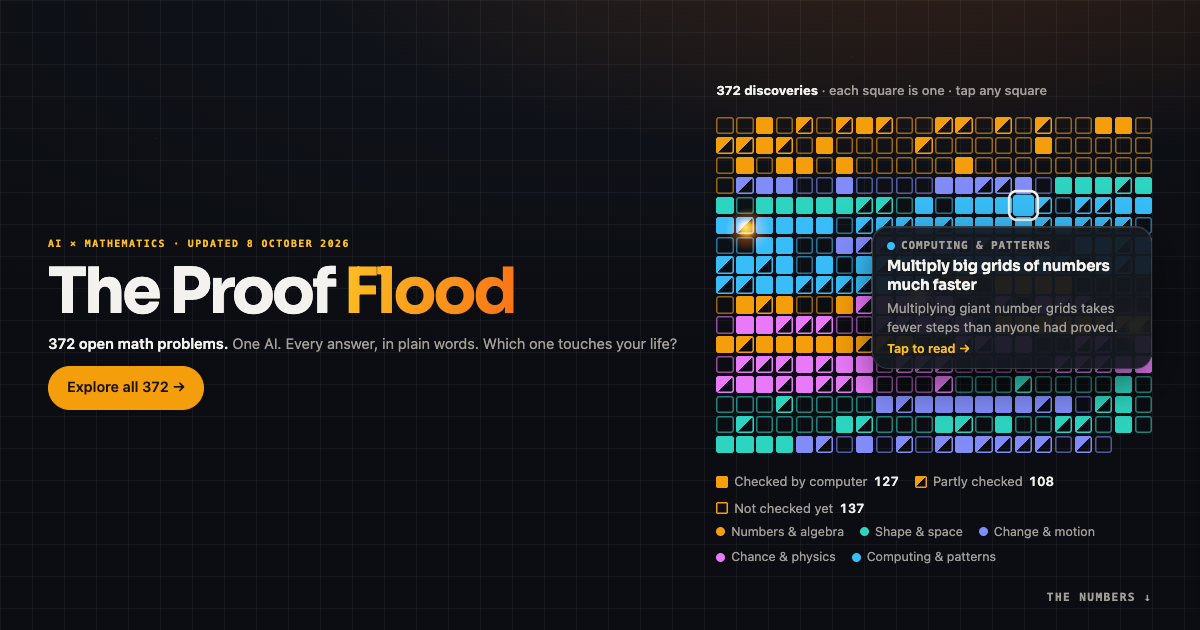
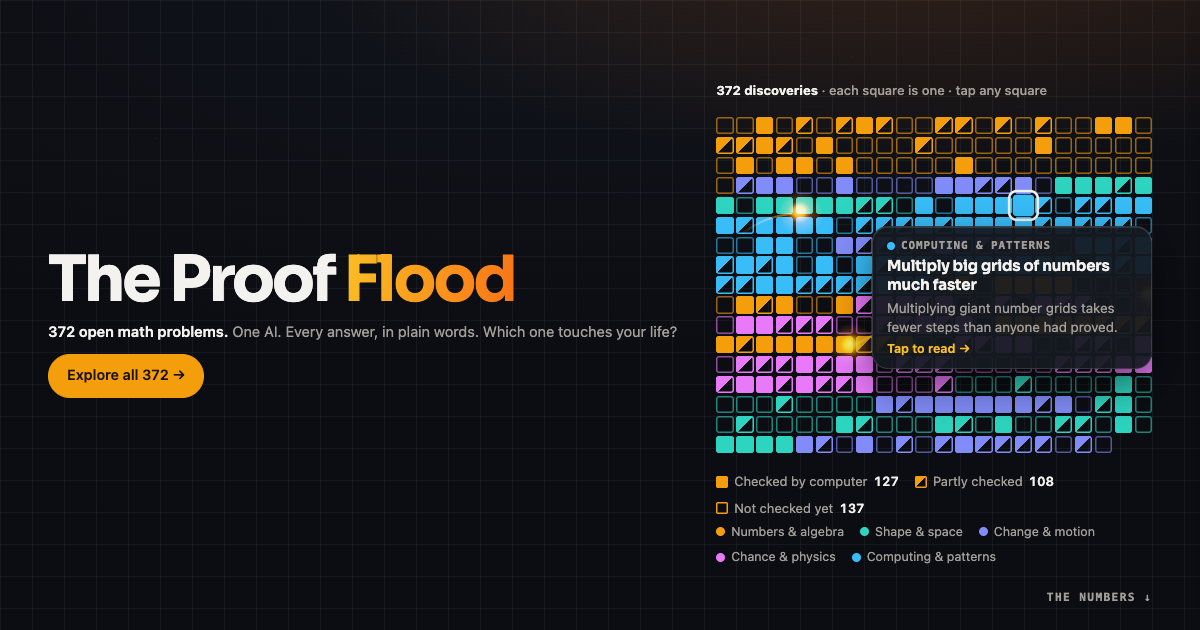
First frames match the page, labels never hide each other, and the review's fixes
The homepage poster is anchored where the suns sit, so the 3D sky takes
over the same picture instead of popping the suns in. The article
window lays its live page out at its still's size, and the stills are
re-taken from today's page, so /articles no longer jumps from an old
layout with an eyebrow. Body labels step apart by a whole label, the
colour fringe is off at rest, and the dev badge no longer covers pages.

From the review: without script every tool panel shows; phone tabs wrap
instead of hiding off-screen; thresholds are ticks on each bar with one
key line; keys ignore modifiers and focus does not scroll; 58 dead race
rules are gone; stale race references in the docs are current. The
design detector drops to 8.

Changed region(s): [[0.0308, 0.3619, 0.5858, 0.6635], [0.5858, 0.3016, 0.6783, 0.3921], [0.6783, 0.5127, 0.74, 0.573]]

diff --git a/design/home.html b/design/home.html
@@ -61,7 +61,7 @@ html { background: var(--bg); }
    every section scrolls over it; the scroll decides which moment of the story you see. ── */
 .world { position: fixed; inset: 0; z-index: 0; background: var(--bg); pointer-events: none; }
 .world canvas { position: absolute; inset: 0; width: 100%; height: 100%; display: block; }
[3 lines of base64/hex data omitted]
 .fallback svg { width: min(78vw, 900px); translate: 8% -12%; }
 /* Arrival: a still of the world's own first frame (public/space/poster*.webp) paints with the page, so the
@@ -101,13 +101,6 @@ footer { position: relative; z-index: 2; }
 
 /* The story, scrubbed by scroll: a three-stop rail, then headlines that build word by word. */
 .beats { position: absolute; left: var(--gutter); right: var(--gutter); bottom: clamp(1.75rem, 8vh, 6rem); max-width: var(--container-wide); margin-inline: auto; display: grid; pointer-events: none; }
-.scrub { display: flex; align-items: center; gap: var(--space-4); width: min(100%, 30rem); opacity: 0; font: var(--fw-semibold) var(--fs-2xs)/1 var(--font-mono); letter-spacing: var(--track-label); text-transform: uppercase; color: var(--faint); position: relative; padding-bottom: var(--space-3); }
-.scrub span { transition: color var(--dur-base); white-space: nowrap; }
-.scrub span.on { color: var(--text); }
-.scrub span.done { color: var(--accent-text); }
-.scrub i { position: absolute; left: 0; right: 0; bottom: 0; height: 1px; background: var(--line-strong); }
-.scrub i b { position: absolute; inset: 0 auto 0 0; width: 0; background: linear-gradient(90deg, var(--sun1), var(--sun2)); box-shadow: 0 0 10px var(--ring); }
-.scrub i b::after { content: ""; position: absolute; right: -3px; top: -3px; width: 7px; height: 7px; border-radius: 50%; background: var(--sun1); box-shadow: 0 0 10px var(--sun2); }
 .beat-stack { display: grid; }
 .beat { visibility: hidden; }
 .beat-no { font: var(--fw-semibold) var(--fs-xs)/1 var(--font-mono); letter-spacing: var(--track-eyebrow); color: var(--accent-text); }
@@ -308,9 +301,6 @@ html:not(.js) #after .jr-steps li { grid-area: auto; }
 /* ── 3 · Demo: the chat, and the wires it actually uses ── */
 .demo-sec .light { --ls: 70vmax; left: 18%; top: 60%; }
 .demo-sec .tex { --tx: 25%; --ty: 60%; }
-.demo-grid { display: grid; gap: var(--space-6); align-items: center; }
-@media (min-width: 1000px) { .demo-grid { grid-template-columns: minmax(0, 7fr) minmax(0, 5fr); gap: var(--space-8); } }
-.chat { background: var(--glass-bg); backdrop-filter: blur(var(--glass-blur)); -webkit-backdrop-filter: blur(var(--glass-blur)); border: 1px solid var(--line); border-radius: var(--radius-2xl); box-shadow: var(--shadow-lg), var(--glass-inset), 0 40px 120px color-mix(in srgb, var(--sun2) 10%, transparent); overflow: hidden; }
 .chat-top { display: flex; align-items: center; gap: var(--space-3); padding: var(--space-4) var(--space-5); border-bottom: 1px solid var(--line); }
 .chat-top svg { width: 24px; height: 24px; }
 .chat-top div { display: grid; line-height: 1.25; }
@@ -318,59 +308,10 @@ html:not(.js) #after .jr-steps li { grid-area: auto; }
 .chat-top small { color: var(--muted); font-size: var(--fs-xs); }
 .chat-top .tag { margin-left: auto; }
 .chat-log { padding: var(--space-5); display: grid; gap: var(--space-4); min-height: 29rem; align-content: start; }
-.msg { max-width: 88%; padding: var(--space-3) var(--space-4); border-radius: var(--radius-lg); line-height: var(--lh-body); transition: opacity var(--dur-slow) var(--ease-out), transform var(--dur-slow) var(--ease-out); }
-.msg.me { justify-self: end; background: var(--surface-sunken); border-bottom-right-radius: var(--radius-xs); }
-.msg.ai { justify-self: start; border: 1px solid var(--line); border-bottom-left-radius: var(--radius-xs); background: var(--surface-solid); box-shadow: inset 0 1px 0 var(--glass-edge); }
-.msg .who { display: block; margin-bottom: 4px; }
-.step { display: flex; align-items: center; gap: var(--space-3); font: var(--fw-medium) var(--fs-xs)/1.4 var(--font-mono); color: var(--muted); transition: opacity var(--dur-slow); }
-.step i { width: 18px; height: 18px; border-radius: 50%; border: 1.5px solid var(--line-strong); flex: none; display: grid; place-items: center; font-style: normal; }
-.step.done i { border-color: var(--ok); color: var(--ok); }
-.step.done i::before { content: ""; width: 7px; height: 4px; border: solid currentColor; border-width: 0 0 1.5px 1.5px; rotate: -45deg; translate: 0 -1px; }
-.step.run i { border-top-color: var(--ring); animation: spin .8s linear infinite; }
-@keyframes spin { to { transform: rotate(1turn); } }
-.order { margin-top: var(--space-3); border-top: 1px solid var(--line); padding-top: var(--space-3); display: grid; grid-template-columns: 1fr auto; gap: 6px var(--space-4); font-size: var(--fs-sm); transition: opacity var(--dur-slow); }
-.typing { display: inline-flex; gap: 4px; padding: var(--space-3) var(--space-4); border: 1px solid var(--line); border-radius: var(--radius-lg); justify-self: start; }
-.typing i { width: 6px; height: 6px; border-radius: 50%; background: var(--muted); animation: blink 1s infinite; }
-.typing i:nth-child(2) { animation-delay: .15s; } .typing i:nth-child(3) { animation-delay: .3s; }
-@keyframes blink { 50% { opacity: .25; } }
-.wait { opacity: 0; transform: translateY(8px); }
-.gone { display: none !important; }
-.chat-foot { display: flex; align-items: center; justify-content: space-between; gap: var(--space-4); flex-wrap: wrap; padding: var(--space-4) var(--space-5); border-top: 1px solid var(--line); font-size: var(--fs-sm); color: var(--muted); }
 .btn-sm { min-height: var(--tap-min); padding: 0 var(--space-4); font-size: var(--fs-sm); }
 
 /* The wiring: four stops, one of them a person. */
-.wire-wrap { display: grid; gap: var(--space-5); }
-.wire { list-style: none; padding: 0; margin: 0; display: grid; gap: 0; }
-.wire li { position: relative; display: grid; grid-template-columns: 44px 1fr; gap: 2px var(--space-4); align-items: center; padding-block: var(--space-4); }
-.wire .nd { grid-row: 1 / span 2; width: 44px; height: 44px; border-radius: 50%; display: grid; place-items: center; background: var(--surface-solid); border: 1px solid var(--line-strong); font: var(--fw-semibold) var(--fs-2xs)/1 var(--font-mono); letter-spacing: .04em; color: var(--muted); position: relative; z-index: 1; transition: border-color var(--dur-slow), color var(--dur-slow), box-shadow var(--dur-slow); }
-.wire .nd svg { width: 26px; height: 26px; }
-.wire b { font: var(--fw-semibold) var(--fs-body)/1.25 var(--font-display); }
-.wire small { color: var(--muted); font-size: var(--fs-sm); }
-.wire li + li::before { content: ""; position: absolute; left: 21.5px; top: -50%; height: 100%; width: 1px; background: var(--line-strong); z-index: 0; }
-.wire li + li::after { content: ""; position: absolute; left: 19px; top: -50%; width: 6px; height: 6px; border-radius: 50%; background: var(--ring); box-shadow: 0 0 10px var(--ring); opacity: 0; }
-.wire li.on .nd { border-color: var(--ring); color: var(--text); box-shadow: 0 0 0 4px var(--accent-quiet), 0 0 24px color-mix(in srgb, var(--ring) 35%, transparent); }
-.wire li.done .nd { border-color: color-mix(in oklch, var(--ring) 60%, transparent); color: var(--text); }
-.wire li.done::before, .wire li.on::before { background: linear-gradient(var(--ring), color-mix(in oklch, var(--ring) 40%, transparent)); }
-html[data-motion="on"] .wire li.flow::after { animation: flow 1.1s var(--ease-in-out) infinite; }
-@keyframes flow { from { top: -50%; opacity: 0; } 20% { opacity: 1; } 80% { opacity: 1; } to { top: 45%; opacity: 0; } }
-.wire .gate { grid-column: 2; justify-self: start; margin-top: 6px; }
-.gets { list-style: none; padding: var(--space-5) 0 0; margin: 0; display: grid; gap: var(--space-3); border-top: 1px solid var(--line); }
-.gets li { display: grid; grid-template-columns: 7.5rem 1fr; gap: var(--space-3); align-items: baseline; color: var(--muted); }
-.gets b { font: var(--fw-semibold) var(--fs-xs)/1.3 var(--font-mono); letter-spacing: var(--track-label); text-transform: uppercase; color: var(--accent-text); }
-@media (max-width: 999px) { .gets li { grid-template-columns: 1fr; gap: 2px; } }
-@media (max-width: 999px) { .demo-grid .wire-wrap { order: -1; } }
 /* Tablets: the four stops as one row. Phones keep the vertical list, so every name sits on one line with its line of detail. */
-@media (min-width: 641px) and (max-width: 999px) {
-  .wire { grid-template-columns: repeat(4, 1fr); }
-  .wire li { grid-template-columns: 1fr; justify-items: center; text-align: center; padding: 0; gap: var(--space-2); }
-  .wire .nd { grid-row: auto; }
-  .wire small, .wire .gate { display: none; }
-  .wire b { font-size: var(--fs-xs); font-family: var(--font-mono); font-weight: var(--fw-semibold); letter-spacing: .04em; }
-  .wire li + li::before { left: -50%; top: 22px; width: 100%; height: 1px; }
-  .wire li + li::after { top: 19px; left: -50%; }
-  @keyframes flow { from { left: -50%; opacity: 0; } 20% { opacity: 1; } 80% { opacity: 1; } to { left: 40%; opacity: 0; } }
-}
-@media (max-width: 640px) { .wire li { padding-block: var(--space-3); } .wire small { font-size: var(--fs-xs); } }
 
 /* ── What it could be worth: the owner's own numbers, shown as a range ── */
 /* No expert needed: the roles you no longer have to be, and what you say instead. */
@@ -567,7 +508,7 @@ html.js[data-motion="on"] .hb.arm:not(.play) .hw > span { transform: translateY(
 .tool-tab[aria-selected="true"] { color: var(--accent-text); border-color: var(--accent); }
 .tool-tab:focus-visible { outline: var(--focus-width) solid var(--focus-color); outline-offset: 3px; }
 .tool-panel { align-self: end; display: grid; gap: var(--space-3); }
-.tool-panel[hidden] { display: none; }
+.js .tool-panel[data-off] { display: none; }
 .tp-h { margin: 0; font: var(--fw-bold) var(--fs-h3)/1.2 var(--font-display); letter-spacing: var(--track-heading); }
 .tp-h em { font-style: normal; color: var(--accent-text); }
 .tp-say { margin: 0; font-size: var(--fs-sm); line-height: 1.45; color: var(--muted); }
@@ -585,9 +526,10 @@ html.js[data-motion="on"] .hb.arm:not(.play) .hw > span { transform: translateY(
 .tb-good .tb-bar { background: var(--ok); }
 .tb-v { color: var(--muted); font-size: var(--fs-xs); font-variant-numeric: tabular-nums; }
 .tb-hot .tb-v { color: var(--accent-text); }
-.tb-mark { position: absolute; top: -6px; bottom: -4px; left: calc(8.5rem + var(--space-3)); width: calc(100% - 8.5rem - var(--space-3)); pointer-events: none; }
-.tb-mark::before { content: ""; position: absolute; top: 0; bottom: 0; left: var(--v); border-left: 1px dashed var(--accent); }
-.tb-mark span { position: absolute; top: -1.3em; left: var(--v); translate: -50% 0; font-size: var(--fs-2xs); color: var(--accent-text); white-space: nowrap; }
+/* A threshold (60 days, 14 days) is a dashed tick on each track at the same place, named once under the bars. */
+.tp-bars[style] .tb-track::after { content: ""; position: absolute; top: -3px; bottom: -3px; left: var(--m); border-left: 1px dashed var(--accent); }
+.tb-key { display: flex; align-items: center; gap: var(--space-2); padding-left: calc(8.5rem + var(--space-3)); font-size: var(--fs-2xs); color: var(--accent-text); }
+.tb-key i { height: 10px; border-left: 1px dashed var(--accent); }
 @keyframes tb-grow { from { transform: scaleX(0); } }
 @media (prefers-reduced-motion: reduce) { .tb-bar { animation: none; } }
 .tp-out { margin: 0; font-weight: var(--fw-semibold); color: var(--text); }
@@ -601,13 +543,12 @@ html.js[data-motion="on"] .hb.arm:not(.play) .hw > span { transform: translateY(
 .tools-cta { margin: 0; display: flex; flex-wrap: wrap; align-items: center; gap: var(--space-3) var(--space-4); font-size: var(--fs-sm); }
 @media (max-width: 699px) {
   .tools-in { grid-template-columns: minmax(0, 1fr); row-gap: var(--space-3); padding-top: calc(var(--nav-height) + var(--space-3)); padding-bottom: var(--space-3); }
-  .tool-tabs { flex-wrap: nowrap; overflow-x: auto; margin-inline: calc(var(--gutter) * -1); padding-inline: var(--gutter); scrollbar-width: none; }
-  .tool-tab { flex: none; }
+  .tool-tab { padding: 0 var(--space-3); }
 }
-@media (max-width: 699px) and (max-height: 740px) { .tp-say { display: none; } }
+@media (max-width: 699px) and (max-height: 740px) { .tools-in > .h2 { font-size: 1.35rem; } .tool-tab .lg { display: none; } }
 @media (min-width: 700px) and (max-width: 1099px) { .tools-in { grid-template-columns: minmax(0, 24rem); } }
-@media (max-height: 1000px) { .tp-h { display: none; } .tools-in { row-gap: var(--space-3); } }
-html:not(.js) .tools { height: auto; } html:not(.js) .tools-pin { position: relative; height: auto; } html:not(.js) .tool-tabs { display: none; } html:not(.js) .tool-panel[hidden] { display: grid; }
+@media (max-height: 1000px) { .js .tp-h { display: none; } .tools-in { row-gap: var(--space-3); } }
+html:not(.js) .tools { height: auto; } html:not(.js) .tools-pin { position: relative; height: auto; } html:not(.js) .tool-tabs { display: none; } html:not(.js) .tools-in { height: auto; row-gap: var(--space-7); }
 .world-tag { width: 52px; height: 52px; background: color-mix(in oklch, var(--bg) 88%, transparent); border-color: color-mix(in oklch, var(--accent) 55%, transparent); box-shadow: 0 0 24px color-mix(in srgb, var(--ring) 40%, transparent); }
 .world-tag .lg { width: 26px; height: 26px; }
 @media (max-width: 899px) { .close-sec { align-items: end; } .close-in { padding-block: var(--space-7); } }
@@ -701,42 +642,42 @@ html:not(.js) .tools { height: auto; } html:not(.js) .tools-pin { position: rela
       <div class="tool-panel" role="tabpanel" id="tp-quickbooks" aria-labelledby="tt-quickbooks">
         <h3 class="tp-h">Know who owes you. <em>The invoice is ready.</em></h3>
         <p class="tp-say"><span class="ex">Example</span>“Show me who owes us, flag anyone over 60 days, and send Harbour Dental an invoice for the retainer”</p>
-        <ul class="tp-bars"><li class="tb-mark" style="--v:85.7%" aria-hidden="true"><span>60 days</span></li><li class="tb tb-hot"><span class="tb-l">Hillside Roofing</span><span class="tb-track"><i class="tb-bar" style="--v:91.4%"></i></span><span class="tb-v">64 days</span></li><li class="tb"><span class="tb-l">East End Yoga</span><span class="tb-track"><i class="tb-bar" style="--v:44.3%"></i></span><span class="tb-v">31 days</span></li><li class="tb"><span class="tb-l">Harbour Dental</span><span class="tb-track"><i class="tb-bar" style="--v:17.1%"></i></span><span class="tb-v">12 days</span></li></ul>
+        <ul class="tp-bars" style="--m:85.7%"><li class="tb tb-hot"><span class="tb-l">Hillside Roofing</span><span class="tb-track"><i class="tb-bar" style="--v:91.4%"></i></span><span class="tb-v">64 days</span></li><li class="tb"><span class="tb-l">East End Yoga</span><span class="tb-track"><i class="tb-bar" style="--v:44.3%"></i></span><span class="tb-v">31 days</span></li><li class="tb"><span class="tb-l">Harbour Dental</span><span class="tb-track"><i class="tb-bar" style="--v:17.1%"></i></span><span class="tb-v">12 days</span></li><li class="tb-key" aria-hidden="true"><i></i>60 days</li></ul>
         <p class="tp-out">The retainer invoice for Harbour Dental is ready to send. <span class="tp-ok">You check it, then it goes.</span></p>
         <p class="tp-cost"><span class="tp-c"><span class="tp-dots tp-dots-hand" aria-hidden="true"><i></i><i></i><i></i><i></i><i></i></span>By hand: 5 steps</span><span class="tp-c"><span class="tp-dots" aria-hidden="true"><i></i></span>Just ask: 1 sentence</span></p>
       </div>
-      <div class="tool-panel" role="tabpanel" id="tp-shopify" aria-labelledby="tt-shopify" hidden>
+      <div class="tool-panel" role="tabpanel" id="tp-shopify" aria-labelledby="tt-shopify" data-off>
         <h3 class="tp-h">Keep your <em>best sellers</em> on the shelf.</h3>
         <p class="tp-say"><span class="ex">Example</span>“Pull last month&#x27;s top 10 sellers by units sold, show current stock for each, and tell me which will run out in 30 days”</p>
         <ul class="tp-bars"><li class="tb tb-hot"><span class="tb-l">Sea salt caramels</span><span class="tb-track"><i class="tb-bar" style="--v:10.8%"></i></span><span class="tb-v">14 left</span></li><li class="tb tb-hot"><span class="tb-l">Wool mitts</span><span class="tb-track"><i class="tb-bar" style="--v:6.9%"></i></span><span class="tb-v">9 left</span></li><li class="tb"><span class="tb-l">Partridgeberry jam</span><span class="tb-track"><i class="tb-bar" style="--v:92.3%"></i></span><span class="tb-v">120 left</span></li></ul>
         <p class="tp-out">Caramels and mitts will run out within 30 days. Reorder those two. <span class="tp-ok">You decide what to reorder.</span></p>
         <p class="tp-cost"><span class="tp-c"><span class="tp-dots tp-dots-hand" aria-hidden="true"><i></i><i></i><i></i><i></i><i></i><i></i><i></i></span>By hand: 7 steps</span><span class="tp-c"><span class="tp-dots" aria-hidden="true"><i></i></span>Just ask: 1 sentence</span></p>
       </div>
-      <div class="tool-panel" role="tabpanel" id="tp-meta" aria-labelledby="tt-meta" hidden>
+      <div class="tool-panel" role="tabpanel" id="tp-meta" aria-labelledby="tt-meta" data-off>
         <h3 class="tp-h">Which ads worked, and <em>which to pause.</em></h3>
         <p class="tp-say"><span class="ex">Example</span>“Pull spend, cost per result, and ROAS for all active campaigns over the last 7 days vs. the 7 days before. Tell me which ad sets are underperforming and recommend which to pause.”</p>
         <ul class="tp-bars"><li class="tb tb-hot"><span class="tb-l">Local awareness</span><span class="tb-track"><i class="tb-was" style="--v:59.0%"></i><i class="tb-bar" style="--v:94.0%"></i></span><span class="tb-v">$5.90 → $9.40</span></li><li class="tb"><span class="tb-l">New arrivals</span><span class="tb-track"><i class="tb-was" style="--v:61.0%"></i><i class="tb-bar" style="--v:68.0%"></i></span><span class="tb-v">$6.10 → $6.80</span></li><li class="tb tb-good"><span class="tb-l">Fall sale</span><span class="tb-track"><i class="tb-was" style="--v:46.0%"></i><i class="tb-bar" style="--v:41.0%"></i></span><span class="tb-v">$4.60 → $4.10</span></li></ul>
         <p class="tp-out">Local awareness now costs far more per result. I would pause it. <span class="tp-ok">You make the call to pause.</span></p>
         <p class="tp-cost"><span class="tp-c"><span class="tp-dots tp-dots-hand" aria-hidden="true"><i></i><i></i><i></i><i></i><i></i></span>By hand: 5 steps</span><span class="tp-c"><span class="tp-dots" aria-hidden="true"><i></i></span>Just ask: 1 sentence</span></p>
       </div>
-      <div class="tool-panel" role="tabpanel" id="tp-microsoftexcel" aria-labelledby="tt-microsoftexcel" hidden>
+      <div class="tool-panel" role="tabpanel" id="tp-microsoftexcel" aria-labelledby="tt-microsoftexcel" data-off>
         <h3 class="tp-h">The sales workbook, <em>updated for you.</em></h3>
         <p class="tp-say"><span class="ex">Example</span>“Add a pivot table of revenue by category this month vs. last, with a bar chart”</p>
         <ul class="tp-bars"><li class="tb tb-good"><span class="tb-l">Bread</span><span class="tb-track"><i class="tb-was" style="--v:86.7%"></i><i class="tb-bar" style="--v:93.6%"></i></span><span class="tb-v">$3,900 → $4,210</span></li><li class="tb"><span class="tb-l">Pastry</span><span class="tb-track"><i class="tb-was" style="--v:73.8%"></i><i class="tb-bar" style="--v:70.7%"></i></span><span class="tb-v">$3,320 → $3,180</span></li><li class="tb tb-good"><span class="tb-l">Coffee</span><span class="tb-track"><i class="tb-was" style="--v:53.6%"></i><i class="tb-bar" style="--v:58.7%"></i></span><span class="tb-v">$2,410 → $2,640</span></li></ul>
         <p class="tp-out">The pivot table and a bar chart are in the workbook. Your formulas are untouched. <span class="tp-ok">The live workbook is updated.</span></p>
         <p class="tp-cost"><span class="tp-c"><span class="tp-dots tp-dots-hand" aria-hidden="true"><i></i><i></i><i></i><i></i></span>By hand: 4 steps</span><span class="tp-c"><span class="tp-dots" aria-hidden="true"><i></i></span>Just ask: 1 sentence</span></p>
       </div>
-      <div class="tool-panel" role="tabpanel" id="tp-hubspot" aria-labelledby="tt-hubspot" hidden>
+      <div class="tool-panel" role="tabpanel" id="tp-hubspot" aria-labelledby="tt-hubspot" data-off>
         <h3 class="tp-h">The deals that went quiet, <em>followed up.</em></h3>
         <p class="tp-say"><span class="ex">Example</span>“Show every deal with no activity in 14 days and draft a follow-up for each”</p>
-        <ul class="tp-bars"><li class="tb-mark" style="--v:43.8%" aria-hidden="true"><span>14 days</span></li><li class="tb tb-hot"><span class="tb-l">Harbour Dental</span><span class="tb-track"><i class="tb-bar" style="--v:93.8%"></i></span><span class="tb-v">30 days quiet · draft ready</span></li><li class="tb tb-hot"><span class="tb-l">Cove Road Cafe</span><span class="tb-track"><i class="tb-bar" style="--v:65.6%"></i></span><span class="tb-v">21 days · draft ready</span></li><li class="tb tb-hot"><span class="tb-l">East End Yoga</span><span class="tb-track"><i class="tb-bar" style="--v:53.1%"></i></span><span class="tb-v">17 days · draft ready</span></li></ul>
+        <ul class="tp-bars" style="--m:43.8%"><li class="tb tb-hot"><span class="tb-l">Harbour Dental</span><span class="tb-track"><i class="tb-bar" style="--v:93.8%"></i></span><span class="tb-v">30 days quiet · draft ready</span></li><li class="tb tb-hot"><span class="tb-l">Cove Road Cafe</span><span class="tb-track"><i class="tb-bar" style="--v:65.6%"></i></span><span class="tb-v">21 days · draft ready</span></li><li class="tb tb-hot"><span class="tb-l">East End Yoga</span><span class="tb-track"><i class="tb-bar" style="--v:53.1%"></i></span><span class="tb-v">17 days · draft ready</span></li><li class="tb-key" aria-hidden="true"><i></i>14 days</li></ul>
         <p class="tp-out">Three deals went quiet. Each one has a follow-up that mentions your last talk. <span class="tp-ok">You read each one and press send.</span></p>
         <p class="tp-cost"><span class="tp-c"><span class="tp-dots tp-dots-hand" aria-hidden="true"><i></i><i></i><i></i><i></i><i></i></span>By hand: 5 steps</span><span class="tp-c"><span class="tp-dots" aria-hidden="true"><i></i></span>Just ask: 1 sentence</span></p>
       </div>
-      <div class="tool-panel" role="tabpanel" id="tp-gmail" aria-labelledby="tt-gmail" hidden>
+      <div class="tool-panel" role="tabpanel" id="tp-gmail" aria-labelledby="tt-gmail" data-off>
         <h3 class="tp-h">Your inbox sorted, <em>the invite ready to send.</em></h3>
         <p class="tp-say"><span class="ex">Example</span>“Group today&#x27;s inbox into needs a reply today, can wait, and junk. Then find 30 minutes next week with Harbour Dental and send the invite.”</p>
-        <ul class="tp-bars"><li class="tb tb-hot"><span class="tb-l">Needs a reply today</span><span class="tb-track"><i class="tb-bar" style="--v:23.5%"></i></span><span class="tb-v">4</span></li><li class="tb"><span class="tb-l">Can wait</span><span class="tb-track"><i class="tb-bar" style="--v:52.9%"></i></span><span class="tb-v">9</span></li><li class="tb"><span class="tb-l">Junk and newsletters</span><span class="tb-track"><i class="tb-bar" style="--v:94.1%"></i></span><span class="tb-v">16</span></li></ul>
+        <ul class="tp-bars"><li class="tb tb-hot"><span class="tb-l">Needs a reply today</span><span class="tb-track"><i class="tb-bar" style="--v:23.5%"></i></span><span class="tb-v">4</span></li><li class="tb"><span class="tb-l">Can wait</span><span class="tb-track"><i class="tb-bar" style="--v:52.9%"></i></span><span class="tb-v">9</span></li><li class="tb"><span class="tb-l">Junk</span><span class="tb-track"><i class="tb-bar" style="--v:94.1%"></i></span><span class="tb-v">16</span></li></ul>
         <p class="tp-out">Tuesday at 10:30 works for you both. The invite is ready to send. <span class="tp-ok">Nothing sends without your OK.</span></p>
         <p class="tp-cost"><span class="tp-c"><span class="tp-dots tp-dots-hand" aria-hidden="true"><i></i><i></i><i></i><i></i></span>By hand: 4 steps</span><span class="tp-c"><span class="tp-dots" aria-hidden="true"><i></i></span>Just ask: 1 sentence</span></p>
       </div>

diff --git a/lib/home/scene.ts b/lib/home/scene.ts
@@ -39,7 +39,7 @@ export function startScene(S: Solenix): { binding: SpaceBinding; stop: () => voi
   // Revenue, Costs, Time: a small tag under each sun, all the way through. They fade only where the scene is
   // dimmed behind reading text, and step apart if two suns pass close together. On the journey the step is the
   // subject, so the tags step back until the orbit holds.
-  let tagShow = 1, tagW = [90, 90, 90];
+  let tagShow = 1, tagW = [90, 90, 90], tagH = 28;
   // The hero box runs from the headline to the button, as wide as the widest line, so no tag lands on any of it.
   const heroBeat = document.querySelector<HTMLElement>('.sky .beat'), heroBeatH = heroBeat && heroBeat.querySelector<HTMLElement>('.beat-h'), heroBlocks = [...document.querySelectorAll<HTMLElement>('.hero-copy .wrap > *')], readBlocks: Record<string, HTMLElement[]> = { '#guide': [...document.querySelectorAll<HTMLElement>('#guide .jr-head, #guide .guide-say')], '#close': [...document.querySelectorAll<HTMLElement>('#close .close-in > *')] };
   let heroBox = [0, 0, 0, 0], readBox: Record<string, number[][]> = {}, heroBoxDirty = true;
@@ -69,7 +69,9 @@ export function startScene(S: Solenix): { binding: SpaceBinding; stop: () => voi
     const bd = [0, 1, 2].map(i => f.offOrbit(i));
     const pos = [0, 1, 2].map(i => { const B = f.sun(i), v = f.project(B.x, B.y, B.z), rad = f.sunRadiusPx(i);
       return { i, vis: 1 - Math.max(heroAmt, Math.min(1, sc.rw)) * smooth(1.02, 1.16, Math.abs(v.x)), x: (v.x + 1) / 2 * W, y: (1 - v.y) / 2 * H + lerp(margin, Math.max(margin, Math.min(rad, H * 0.22) + 18), heroAmt) }; }).sort((p0, p1) => p0.y - p1.y);
-    for (let n = 1; n < 3; n++) for (let m = 0; m < n; m++) if (Math.abs(pos[n].x - pos[m].x) < 92 && pos[n].y - pos[m].y < 24) pos[n].y = pos[m].y + 24;
+    // Two tags that would touch: the lower one steps down by a whole tag, so neither hides the other.
+    const step = tagH + 6;
+    for (let n = 1; n < 3; n++) for (let m = 0; m < n; m++) if (Math.abs(pos[n].x - pos[m].x) < (tagW[pos[n].i] + tagW[pos[m].i]) / 2 + 8 && pos[n].y - pos[m].y < step) pos[n].y = pos[m].y + step;
     pos.forEach(pp => { const e = tags[pp.i], hw = tagW[pp.i] / 2 + 10, x = Math.min(Math.max(pp.x, hw), W - hw);
       const clear = (bx: number[]) => Math.max(bx[0] - (x + hw), (x - hw) - bx[2], bx[1] - (pp.y + 12), (pp.y - 12) - bx[3]);
       const rb = readBox[S.sec], gap = rb ? Math.min(...rb.map(clear)) : clear(heroBox);
@@ -102,7 +104,7 @@ export function startScene(S: Solenix): { binding: SpaceBinding; stop: () => voi
     onFrame: labels,
     onLock: (holding) => { jrEl.classList.toggle('locked', holding); ui.classList.toggle('locked', holding); },
     onPayoff: () => { ui.classList.remove('lock-pop'); void ui.offsetWidth; ui.classList.add('lock-pop'); },
-    onResize: () => { tagW = tags.map(e => e.offsetWidth || 90); },
+    onResize: () => { tagW = tags.map(e => e.offsetWidth || 90); tagH = tags[0]?.offsetHeight || 28; },
   };
   return { binding, stop: () => l.stop() };
 }

diff --git a/client/articles-live.ts b/client/articles-live.ts
@@ -15,19 +15,19 @@ const rootStyle = getComputedStyle(document.documentElement)
 const token = (name: string) => rootStyle.getPropertyValue(name).trim()
 const ms = (v: string) => parseFloat(v) * (v.endsWith("ms") ? 1 : 1000)
 
-// A play window (the hero) is your screen in miniature: the page is laid out at your screen's size, so its
-// whole first screen shows, and the window takes your screen's shape, as tall as the hero allows and never
-// wider than its room. Entering grows exactly that picture to the full screen. A card renders the page at
-// the width of its still (the picture it replaces) and scales it down, so the still and the live page are
-// the same picture; until the still has loaded, the screen's width stands in.
+// Every live window lays its page out at the size of its still (the picture it shows first) and scales it down,
+// so the still and the live page are the same picture and the swap never jumps. A play window (the hero) takes
+// the still's shape, as tall as the hero allows and never wider than its room; its still is the phone or desktop
+// first screen, whichever matches your screen. Until the still has loaded, your screen's size stands in.
 const layout = (c: HTMLElement) => c.querySelector<HTMLImageElement>(":scope > picture img, :scope > img")
 const box = (c: HTMLElement) => {
   const r = c.getBoundingClientRect()
+  const still = layout(c)
   if (c.classList.contains("play")) {
-    const w = innerWidth, h = innerHeight
+    const w = still?.naturalWidth || innerWidth, h = still?.naturalHeight || innerHeight
     return { r, w, h, s: Math.min(r.height / h, r.width / w) }
   }
-  const still = layout(c), w = still?.naturalWidth || innerWidth, s = r.width / w
+  const w = still?.naturalWidth || innerWidth, s = r.width / w
   return { r, w, s, h: still?.naturalHeight || r.height / s }
 }
 // The window's width follows the screen's shape at the hero's height, capped by the room it sits in.
@@ -35,7 +35,8 @@ const shape = (c: HTMLElement) => {
   const win = c.closest<HTMLElement>(".win"), room = win?.parentElement
   if (!win || !room) return
   const cs = getComputedStyle(room), free = room.clientWidth - parseFloat(cs.paddingLeft) - parseFloat(cs.paddingRight)
-  win.style.width = Math.min(free, (c.getBoundingClientRect().height * innerWidth) / innerHeight) + "px"
+  const still = layout(c), w = still?.naturalWidth || innerWidth, h = still?.naturalHeight || innerHeight
+  win.style.width = Math.min(free, (c.getBoundingClientRect().height * w) / h) + "px"
 }
 const fit = () => {
   for (const c of document.querySelectorAll<HTMLElement>(".live")) {

diff --git a/lib/home/ui.ts b/lib/home/ui.ts
@@ -2,6 +2,7 @@
 // No WebGL here: the page still reads in full if the 3D world fails to load. startUi() runs when the homepage mounts
 // (lib/home/attach.ts); its stop() removes every listener, observer and timer it started. Types: lib/home/home.d.ts.
 import { listener } from "./listen";
+import { PICK_EVENT } from "./tools";
 
 // One keyframe of the story: where in the scroll it sits, and the scene values it pins.
 type HomeKey = { sel: string; f: number; pin?: number; gap?: number } & Partial<HomeSceneParams>;
@@ -49,9 +50,12 @@ const KEYS: HomeKey[] = [
   { sel: '#close', f: 1, el: 60, az: 180, dist: 16 }
 ];
 // The picked tool's world, at the start (f 0.15) and end (f 0.8) of the tools scene. Each world is seen from its own
-// side, kept within half a turn of the guide's view so the camera never spins the long way round.
+// side: the six sit 60° apart round the centre, the first seen from 70°, and the camera drifts 10° across the scene.
+// The angle is kept within half a turn of the guide's view (34°), so the camera never spins the long way round.
+const WORLD_AZ0 = 70, WORLD_AZ_STEP = 60, SCENE_DRIFT = 10, GUIDE_AZ = 34;
+const nearGuide = (az: number) => ((az - GUIDE_AZ + 180) % 360 + 360) % 360 - 180 + GUIDE_AZ;
 const toolView = (i: number, end: boolean): Partial<HomeSceneParams> => {
-  const w = FLY[i] ?? FLY[0], roam = end ? w.b : w.a, az = ((70 + i * 60 + (end ? 10 : 0) + 146) % 360) - 146;
+  const w = FLY[i] ?? FLY[0], roam = end ? w.b : w.a, az = nearGuide(WORLD_AZ0 + i * WORLD_AZ_STEP + (end ? SCENE_DRIFT : 0));
   return { wsel: i, tx: w.tx, tz: w.tz, el: w.el, dist: w.dist, az, rf: roam[0], rs: roam[1], sp: w.sp, rw: w.rw };
 };
 const PARAMS = Object.keys(KEYS[0]).filter(k => !['sel', 'f', 'pin', 'gap'].includes(k)) as (keyof HomeSceneParams)[];
@@ -145,7 +149,7 @@ export function startUi(): { S: Solenix; stop: () => void } {
   l.on(window, 'scroll', () => { if (!ticking) { ticking = true; scrollRaf = requestAnimationFrame(onScroll); } }, { passive: true });
   l.on(window, 'resize', () => { S.vh = innerHeight; layoutKeys(); onScroll(); });
   // A new pick in the tools scene moves the camera without a scroll.
-  l.on(window, 'solenix:pick', () => onScroll());
+  l.on(window, PICK_EVENT, () => onScroll());
 
   // Section headlines build word by word, once, as their section arrives.
   const hio = new IntersectionObserver(es => es.forEach(e => { if (e.isIntersecting) { e.target.classList.add('play'); hio.unobserve(e.target); } }), { threshold: 0.6 });

diff --git a/lib/space/engine.ts b/lib/space/engine.ts
@@ -466,7 +466,7 @@ export function createSpace(env: SpaceEnv): Space {
   const bloom = new UnrealBloomPass(new THREE.Vector2(256, 256), 0.4, 0.42, 0.9);
   composer.addPass(bloom);
   composer.addPass(new OutputPass());
-  const finalPass = new ShaderPass({ uniforms: { tDiffuse: { value: null }, uTime: { value: 0 }, uRes: { value: new THREE.Vector2(1, 1) }, uCA: { value: 0.008 }, uGrain: { value: 0.045 }, uShade: { value: 0 }, uShadeL: { value: 0 }, uShadeB: { value: 0 }, uPort: { value: 0 } },
+  const finalPass = new ShaderPass({ uniforms: { tDiffuse: { value: null }, uTime: { value: 0 }, uRes: { value: new THREE.Vector2(1, 1) }, uCA: { value: 0 }, uGrain: { value: 0.045 }, uShade: { value: 0 }, uShadeL: { value: 0 }, uShadeB: { value: 0 }, uPort: { value: 0 } },
     vertexShader: `varying vec2 vUv; void main(){ vUv=uv; gl_Position=projectionMatrix*modelViewMatrix*vec4(position,1.); }`,
     fragmentShader: `uniform sampler2D tDiffuse; uniform float uTime,uCA,uGrain,uShade,uShadeL,uShadeB,uPort; uniform vec2 uRes; varying vec2 vUv;
       float h(vec2 p){ return fract(sin(dot(p,vec2(12.9898,78.233)))*43758.5453); }
@@ -575,7 +575,7 @@ export function createSpace(env: SpaceEnv): Space {
     const heroAmt = R ? heroR : sc.hero;
     const fovS = fov0 + (R ? story.hero.lens * heroR : sc.lens) * lensK, fov = fovS + 5 * warp - 1.5 * easeIn;
     if (Math.abs(fov - camera.fov) > 0.01) { camera.fov = fov; camera.updateProjectionMatrix(); }
-    finalPass.uniforms.uCA.value = 0.008 + 0.02 * warp + 0.012 * swell;
+    finalPass.uniforms.uCA.value = 0.02 * warp + 0.012 * swell;
     finalPass.uniforms.uShade.value = heroAmt; finalPass.uniforms.uShadeL.value = sc.shl; finalPass.uniforms.uShadeB.value = R ? (stn > 0 ? 1 : 0) : sc.fly; finalPass.uniforms.uPort.value = portrait ? 1 : 0;
     gridU.uChaos.value = 1 - sc.free; gridU.uDepth.value = lerp(0.95, 0.6, sc.calm);
 

diff --git a/lib/home/tools.ts b/lib/home/tools.ts
@@ -4,6 +4,9 @@
 // runs when the homepage mounts (lib/home/attach.ts); the function it returns removes every listener it added.
 import { listener } from "./listen";
 
+/** Sent on window when the picked tool changes; lib/home/ui.ts moves the camera on it. */
+export const PICK_EVENT = "solenix:pick";
+
 export function startTools(S: Solenix): () => void {
   const l = listener();
   const tabs = [...document.querySelectorAll<HTMLButtonElement>('#tools [role="tab"]')];
@@ -12,18 +15,18 @@ export function startTools(S: Solenix): () => void {
       const on = t === tab;
       t.setAttribute('aria-selected', String(on));
       t.tabIndex = on ? 0 : -1;
-      document.getElementById(t.getAttribute('aria-controls')!)!.hidden = !on;
+      document.getElementById(t.getAttribute('aria-controls')!)!.toggleAttribute('data-off', !on);
     }
     S.pick = Number(tab.dataset.world);
-    if (focus) tab.focus();
-    dispatchEvent(new Event('solenix:pick'));
+    if (focus) tab.focus({ preventScroll: true });
+    dispatchEvent(new Event(PICK_EVENT));
   };
   const KEYS: Record<string, (i: number) => number> = { ArrowRight: (i) => i + 1, ArrowLeft: (i) => i - 1, Home: () => 0, End: () => tabs.length - 1 };
   tabs.forEach((t, i) => {
     l.on(t, 'click', () => select(t, false));
     l.on(t, 'keydown', (e: KeyboardEvent) => {
       const move = KEYS[e.key];
-      if (!move) return;
+      if (!move || e.altKey || e.ctrlKey || e.metaKey) return;
       e.preventDefault();
       select(tabs[(move(i) + tabs.length) % tabs.length], true);
     });

diff --git a/.claude/workflows/scene-review.js b/.claude/workflows/scene-review.js
@@ -23,7 +23,7 @@ const BAR = `You are reviewing the solenix.dev homepage the way its founder, Jag
 - Show, never tell. Every example is a real-time side-by-side demonstration.
 - The 1–5 plan must not fly past unread.
 - Examples must show purpose, value and impact: the owner's real final output, and that AI does it faster, better and easier. Mediocre "AI slop" examples fail.
-- Nothing static or dead. The races play under Reduce Motion too.
+- Nothing static or dead. Each tool's result shows at once when picked, with or without Reduce Motion.
 - The stable orbit is wide and calm, not cramped.
 - Nothing overlaps or is cut off. Labels are legible.
 Also read ${REPO}/design/research/site-playbook.md ("Decisions for the homepage" and "The six examples") and the "## Decisions" section of ${REPO}/DESIGN.md. Hold the scene to them.`

diff --git a/next.config.ts b/next.config.ts
@@ -4,6 +4,8 @@ import { POSTHOG_ASSETS_HOST, POSTHOG_HOST, POSTHOG_PROXY } from "./lib/analytic
 const nextConfig: NextConfig = {
   // PostHog through the site's own domain (lib/analytics.ts). Its API paths end in slashes.
   skipTrailingSlashRedirect: true,
+  // The dev badge sat on page content in every review screenshot; build errors still show as an overlay.
+  devIndicators: false,
   // Makers' GitHub avatars on /agents, served through the site's own image optimiser.
   images: { remotePatterns: [{ protocol: "https", hostname: "avatars.githubusercontent.com", pathname: "/u/**" }] },
   async rewrites() {

diff --git a/design/research/site-playbook.md b/design/research/site-playbook.md
@@ -4,7 +4,7 @@ Research of 2026-09-30. Every change goes through Impeccable, one named change a
 
 ## Decisions for the homepage
 
-2026-10-10: the six by-hand versus just-ask races are replaced by one tool picker that shows each tool's finished result at once, beside its steps by hand. Decisions 3, 4 and 6 (race clocks, time tapes, measured run times) no longer apply; decision 5 (end on an output, show the approval) lives on in the picker.
+2026-10-10: the six by-hand versus just-ask races are replaced by one tool picker that shows each tool's finished result at once, beside its steps by hand. Decisions 3, 4 and 6 (race clocks, time tapes, measured run times) no longer apply. Decision 2's race hero is the picker's first tool; its connector point stands. Decision 5 (end on an output, show the approval) lives on in the picker.
 
 Ranked by effect on the founder's three verdicts.
 

diff --git a/design/research/demos.md b/design/research/demos.md
@@ -2,7 +2,9 @@
 
 Method: live pages opened in a browser on 2026-09-30 (DOM counts, screenshots). `<.>` marks anything not verified. Effort sizes are my estimates `<.>`.
 
-Starting point: `design/home.html` already runs two stopwatches per race (Shopify race, lines 740–770). What it lacks is the tool's real screens, and the tool's world as a place.
+Status (2026-10-10): superseded for the homepage. The races this research shaped were replaced by one tool picker that shows each finished result at once; its principles 3 to 6 (the tool's own words, dull specifics, the approval gate, Example labels) carry over. Kept as research.
+
+Starting point at the time: `design/home.html` ran two stopwatches per race.
 
 ## 1. Ten demos worth studying
 

diff --git a/.agents/product-marketing.md b/.agents/product-marketing.md
@@ -154,7 +154,7 @@ Reddit post dates are approximate.
 **Value themes:**
 | Theme | Proof |
 |-------|-------|
-| Live, interactive pages built with AI | The Proof Flood article (articles/proof-flood), the homepage's 3D three-body world, and the by-hand versus just-ask races. |
+| Live, interactive pages built with AI | The Proof Flood article (articles/proof-flood), the homepage's 3D three-body world, and the tool picker (each tool's finished result beside its steps by hand). |
 | Open source, with live numbers | Agents Marketplace tools with live GitHub stars and update dates (lib/marketplace.ts). |
 | Hours back for the owner | Not set yet. No client results. |
 | A fixed price in writing | Agreed on each call. No public price. |
